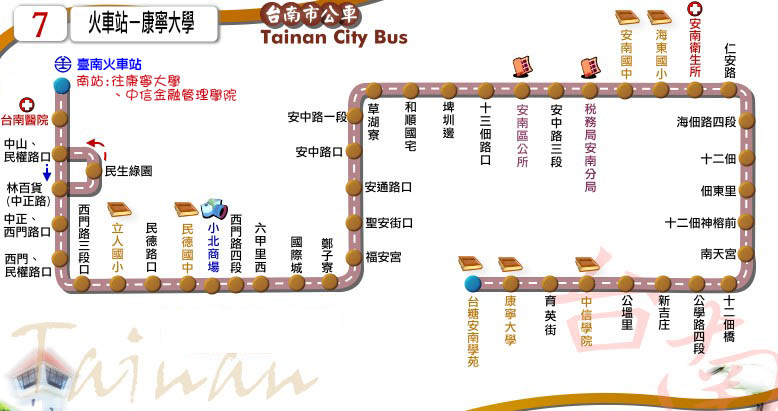
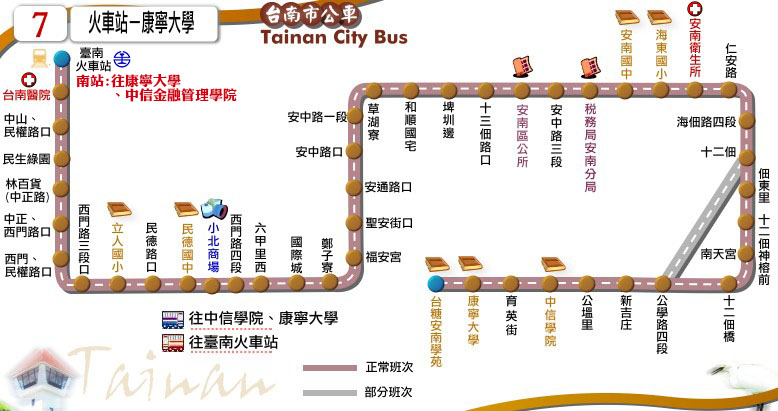
更新時刻表及路線圖：7路 (新增06:20「海東國小→台南火車站」班次、標示星期一夜間班次不經「佃東里」、「十二佃神榕前」、「南天宮」、「十二佃橋」)

diff --git a/route/fare_and_time/city_bus_7.js b/route/fare_and_time/city_bus_7.js
@@ -4,9 +4,11 @@
 city_bus_7_main_stop_name = ["臺南<br />火車站","林百貨<br />(中正路)","小北<br />商場","鄭子寮","和順<br />國宅","海東<br />國小","十二佃","中信學院","康寧<br />大學","台糖<br />安南學苑"];
 city_bus_7_main_stop_time_consume = [0, 6, 14, 20, 27, 37, 43, 48, 49, 50];
 city_bus_7_important_stop = [0, 2, 5, 7, 9]; // 臺南火車站, 小北商場, 海東國小, 興國管理學院, 台糖安南學苑
+var start_stop = 0; // 臺南火車站
+var end_stop = 5; // 海東國小
 city_bus_7_time_go = [["07:00",['W']],["07:30"],["08:50"],["10:00"],["11:10"],["12:30"],["13:30"],["14:30"],["15:30"],
-["16:30"],["17:10"],["17:50"],["19:10"],["19:50",['<font color="red">日</font>']],["20:00",['日停']],["20:30",['<font color="red">日</font>']],["21:45"]
+["16:30"],["17:10"],["17:50"],["19:10"],["19:50",['<span style="color: red;">日</span>']],["20:00",['<span style="color: green;">日停</span>']],["20:30",['<span style="color: red;">日</span>']],["21:45"]
 ];
-city_bus_7_time_return = [["06:20",['W']],["08:00",['W']],["08:30"],["09:50"],["11:00"],["12:10"],["13:30"],["14:30"],
-["15:30"],["16:30"],["17:30"],["18:15"],["18:50"],["20:30"],["21:00",['<font color="red">日</font>']],["21:15",['日停']],["21:30",['<font color="red">日</font>']],["22:30"]
+city_bus_7_time_return = [["06:20",end_stop,start_stop,['W']],["06:20",['W']],["08:00",['W']],["08:30"],["09:50"],["11:00"],["12:10"],["13:30"],["14:30"],
+["15:30"],["16:30"],["17:30"],["18:15"],["18:50"],["20:30"],["21:00",['<span style="color: red;">日</span>']],["21:15",['<span style="color: green;">日停</span>']],["21:30",['<span style="color: red;">日</span>']],["22:30"]
 ];

diff --git a/urban/7.html b/urban/7.html
@@ -20,7 +20,7 @@
 	block_route_map(null);
 	block_route_info(route_interval,'府城客運','尖30離60~80','一段票','http://www.2384.com.tw/ebus/jsp/ajaxBus.jsp?pathId=10166&locale=zh_TW');
 	block_fare(1, null);
-	block_time_schedule('臺南火車站','康寧大學',W_message + '</h3><h3><font color="#000055">「日」表示星期日加開班次(學生停課停開)<br />「日停」表示星期日停開(學生停課加開)</font>');
+	block_time_schedule('臺南火車站','康寧大學',W_message + '</h3><h3>「<span style="color: red;">日</span>」表示星期日加開班次(學生停課停開)<br />「<span style="color: green;">日停</span>」表示星期日停開(學生停課加開)</h3><br /><h3><span style="color: blue;">「星期一」</span><span style="color: darkgreen;">台南火車站17:10與之後發車班次</span>及<span style="color: darkgreen;">安南學苑17:30與之後發車班次</span><span style="color: darkblue;">不經<br />「佃東里」、「十二佃神榕前」、「南天宮」、「十二佃橋」</span>');
 	block_transfer(transfer_tainan_railway_station + transfer_haidong_elementary_school);
 	block_copyright();
 </script>
